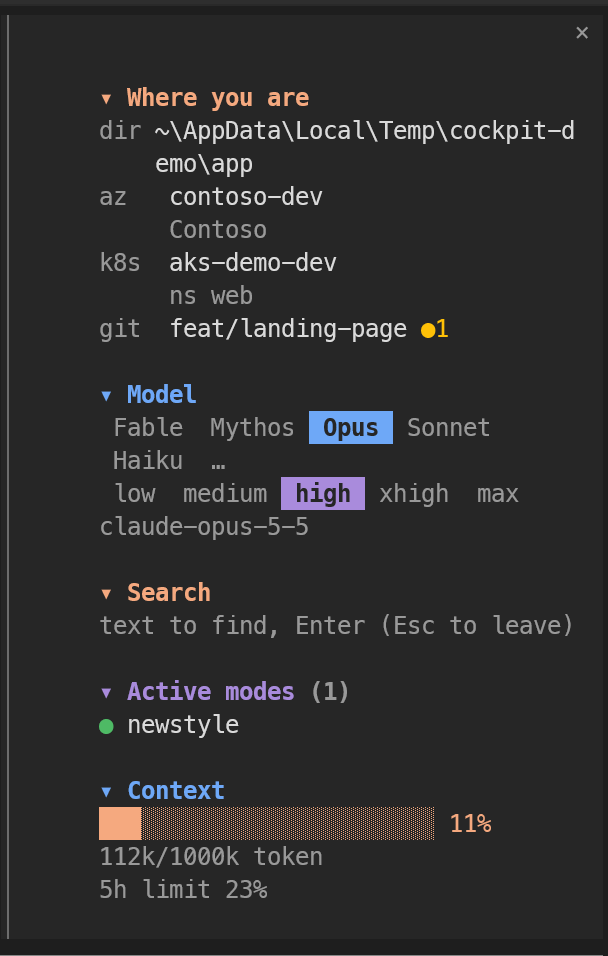
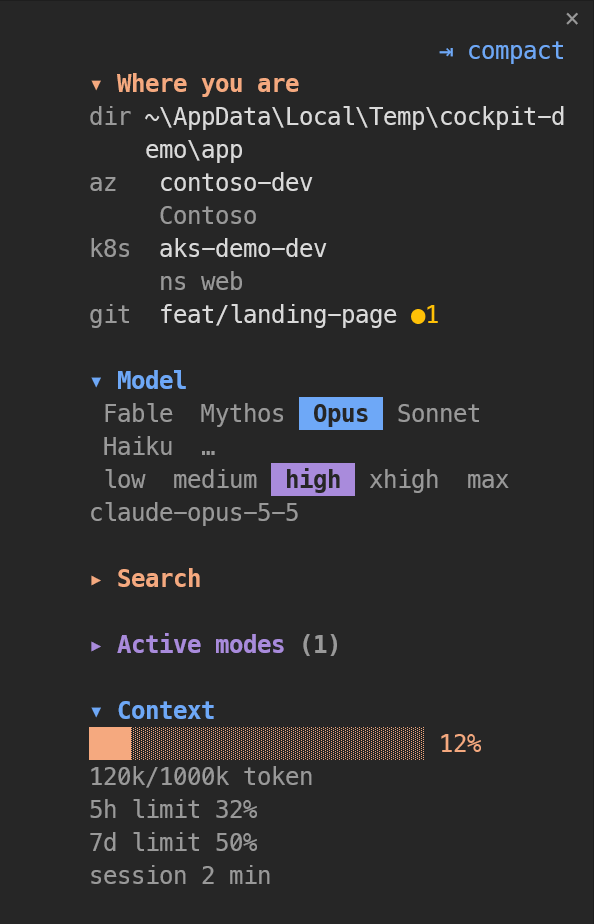
docs: new screenshots (plan, chat, compact band, search, panel); fix: Copy text right under the quote, compact band honours hiddenSections

diff --git a/hooks/register.tsx b/hooks/register.tsx
@@ -323,6 +323,30 @@ function splitLists(md: string): Part[] {
 
 type Table = { header: string[]; rows: string[][] }
 
+// Quoted blocks ("> ...") as pieces of their own, apart from the text around them
+function splitQuotes(md: string): Part[] {
+  const out: Part[] = []
+  let buf: string[] = []
+  let inQuote = false
+  const flush = () => {
+    const text = buf.join('\n').replace(/^\n+|\n+$/g, '')
+    if (text.trim() !== '') {
+      out.push({ text })
+    }
+    buf = []
+  }
+  for (const line of md.split('\n')) {
+    const q = /^>/.test(line)
+    if (q !== inQuote && line.trim() !== '') {
+      flush()
+      inQuote = q
+    }
+    buf.push(line)
+  }
+  flush()
+  return out
+}
+
 // Splits a markdown text into text pieces and tables (line starting with |
 // followed by a line of dashes), in the order they appear
 function splitTables(md: string): Part[] {
@@ -1824,8 +1848,8 @@ async function miniView($: EngineInterface, els: { Box: any; Button: any; Text: 
   const pct = u?.percent ?? 0
   const pctColor = pct >= 80 ? 'error' : pct >= 60 ? 'warning' : ACCENT
   const today = localStamp(await $.clock.now())
-  const pl = (await read($, pipes)).filter(r => r.status !== 'completed' && r.status !== 'error').length
-  const others = (await read($, peers)).filter(x => !x.self).length
+  const pl = HIDDEN.has('pipelines') ? 0 : (await read($, pipes)).filter(r => r.status !== 'completed' && r.status !== 'error').length
+  const others = HIDDEN.has('sessioni') ? 0 : (await read($, peers)).filter(x => !x.self).length
   const prodAz = isProd(w.azSub)
   const prodKube = isProd(w.kube)
   const prodGit = w.branch === 'main' || w.branch === 'master'
@@ -2254,6 +2278,7 @@ export const register: Register = (on, options) => {
     )
     const pieces = splitCode(e.props.text)
       .flatMap(p => (p.code === undefined ? splitTables(p.text) : [p]))
+      .flatMap(p => (p.code === undefined && p.table === undefined ? splitQuotes(p.text) : [p]))
       .flatMap((p, i, all) => (p.code === undefined && p.table === undefined ? splitLabels(p.text, all[i + 1]?.table !== undefined) : [p]))
       .flatMap(p => (p.code === undefined && p.table === undefined && p.label === undefined ? splitLists(p.text) : [p]))
     const nTables = pieces.filter(p => p.table !== undefined).length

diff --git a/README.md b/README.md
@@ -64,6 +64,9 @@ The panel sits on the right of the chat when the terminal is wide enough (about 
 - At the bottom edge: `● Claude Code <version>`, always pinned there while the sections scroll.
 - **`⇥ compact`**, at the top next to the panel's `✕`, closes the side panel and shows a 2-line summary above the prompt instead (folder, subscription, kubectl context, branch, model and effort, context, running pipelines, writes, reminders, other sessions), so the chat gets the whole width; `⇤ expand` on that bar, or `/cockpit`, brings the side panel back. The choice is remembered across sessions.
 
+![Compact mode: the side panel gives way to a 2-line summary above the prompt](docs/compact.png)
+
+
 The sections, from top to bottom:
 
 ### Where you are
